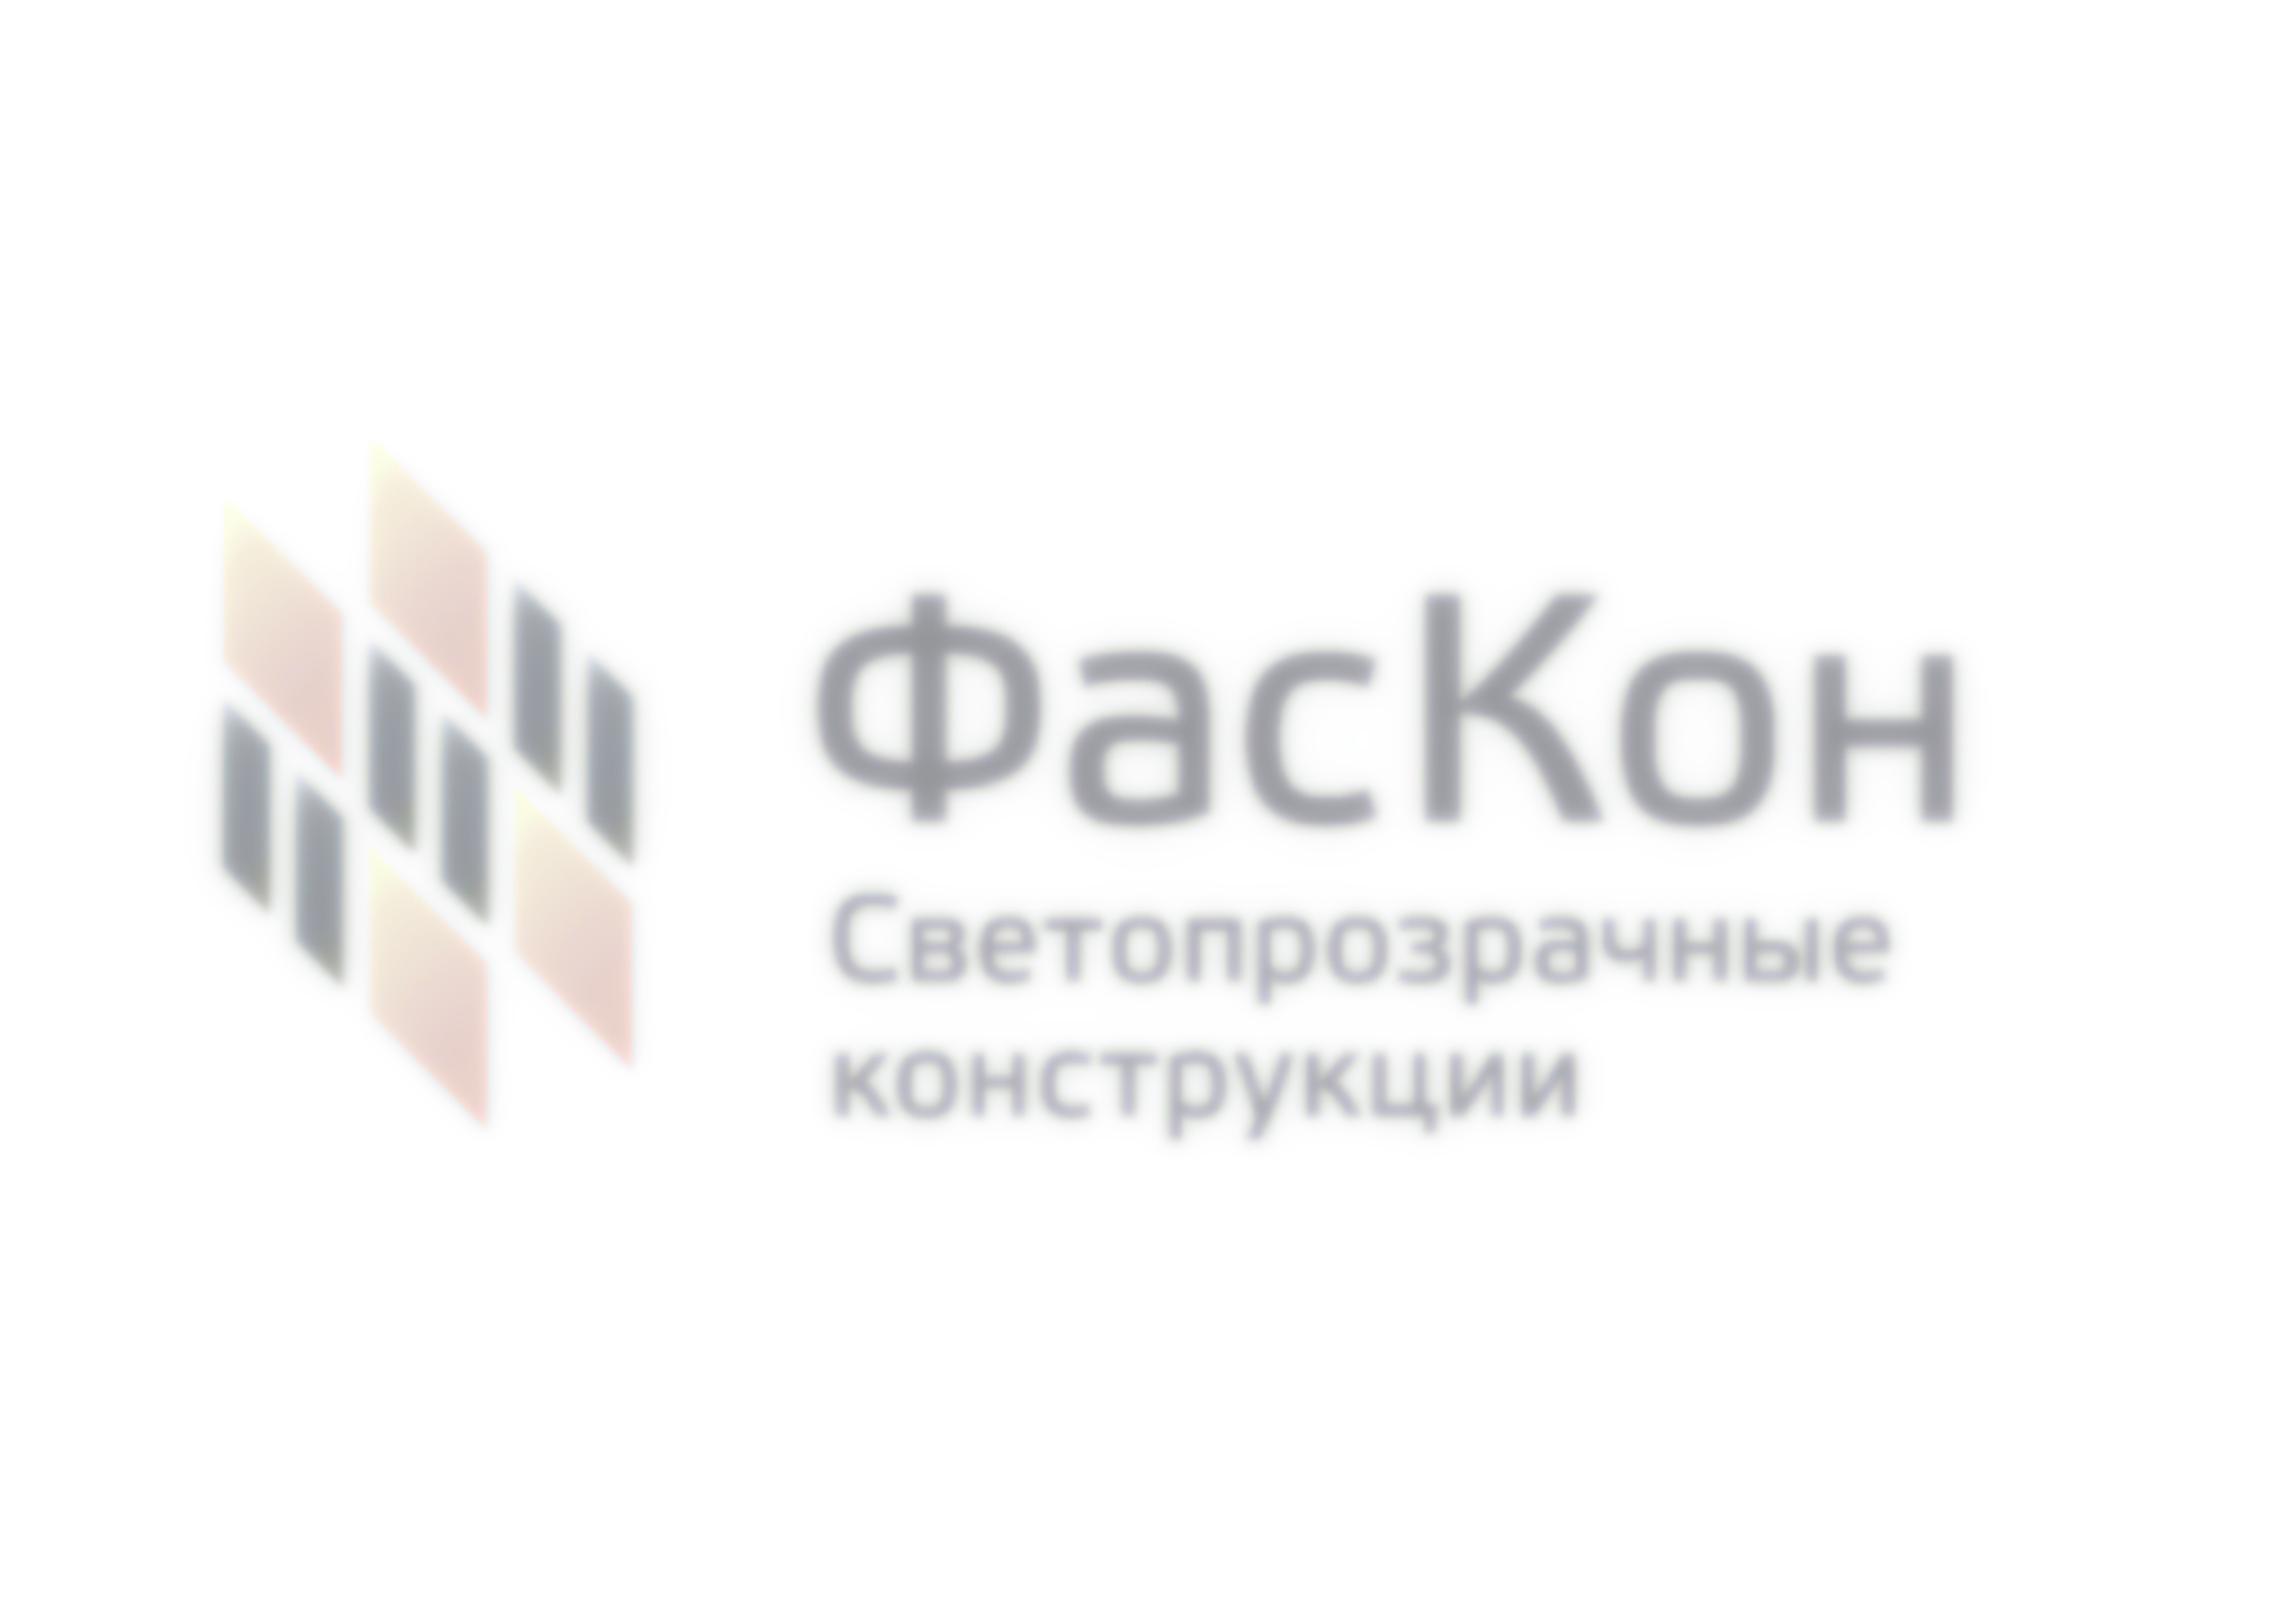
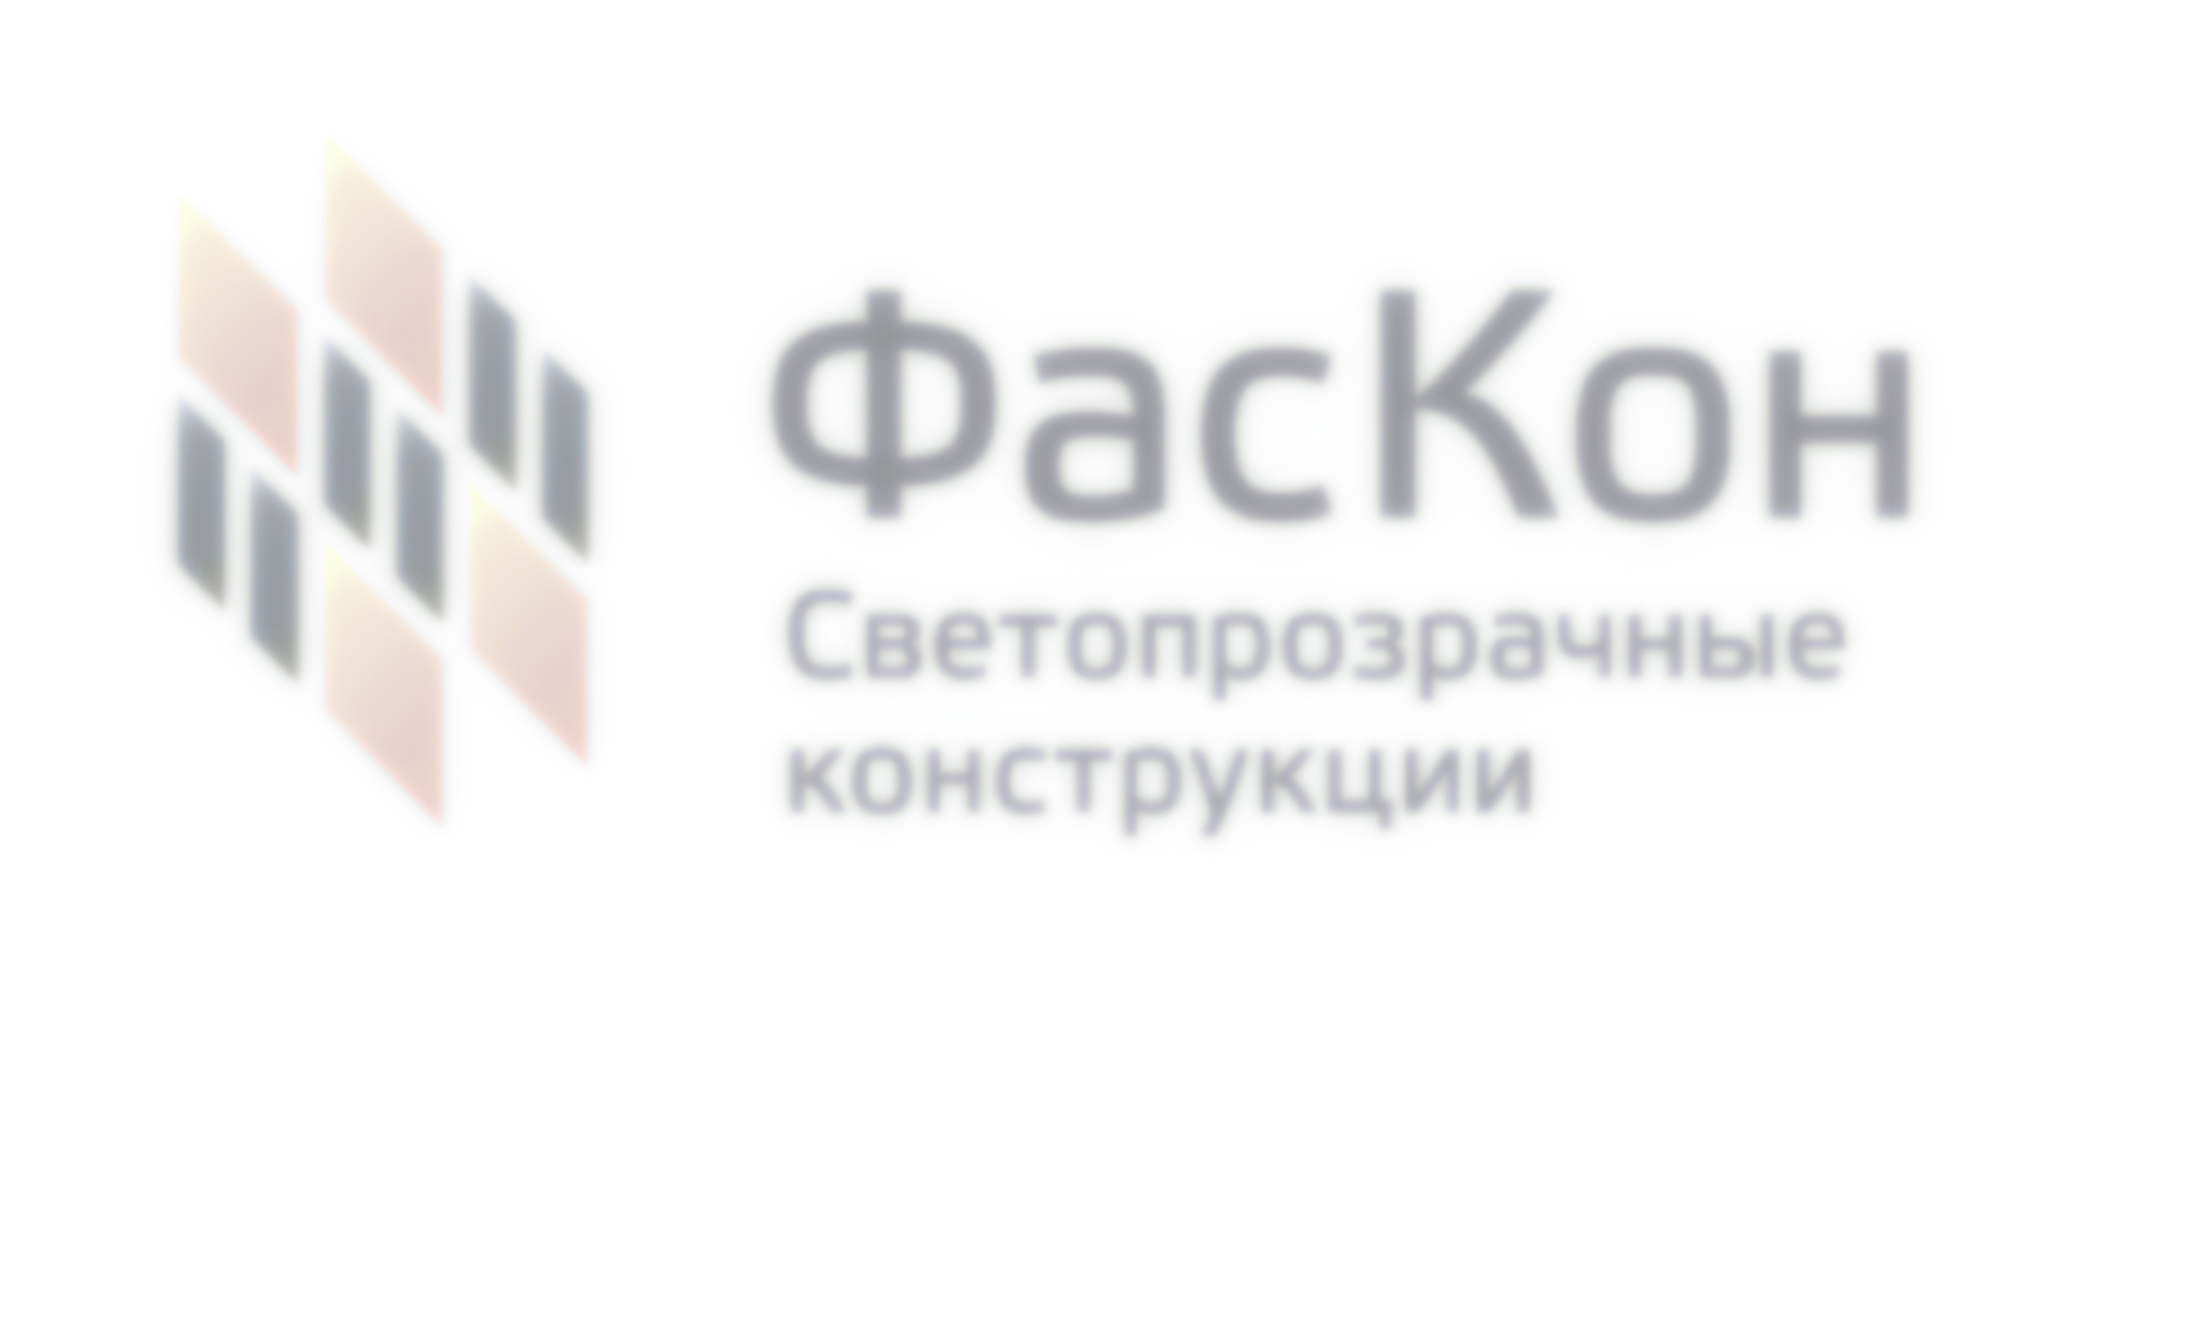
Change styles

Changed region(s): [[0.3413, 0.2188, 0.8688, 0.7188], [0.0621, 0.125, 0.2793, 0.6875]]

diff --git a/src/App.css b/src/App.css
@@ -2,9 +2,18 @@
   text-align: center;
 }
 
-.App-logo {
-  width: 100%;
-  height: 24em;
+@media only screen and (max-width: 600px) {
+  .App-logo {
+    width: 100%;
+    height: 10em;
+  }
+}
+
+@media only screen and (min-width: 1000px) {
+  .App-logo {
+    width: auto;
+    height: 20em;
+  }
 }
 
 .container {
@@ -15,11 +24,22 @@
   font-weight: 500;
 }
 
-.centered {
-  position: absolute;
-  top: 50%;
-  left: 50%;
-  transform: translate(-50%, -50%);
+@media only screen and (max-width: 600px) {
+  .centered {
+    position: absolute;
+    top: 120%;
+    left: 50%;
+    transform: translate(-50%, -50%);
+  }
+}
+
+@media only screen and (min-width: 1000px) {
+  .centered {
+    position: absolute;
+    top: 90%;
+    left: 50%;
+    transform: translate(-50%, -50%);
+  }
 }
 
 .App-header {
